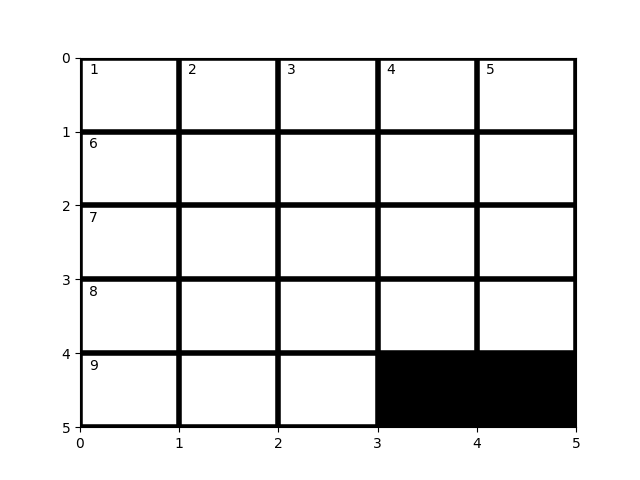
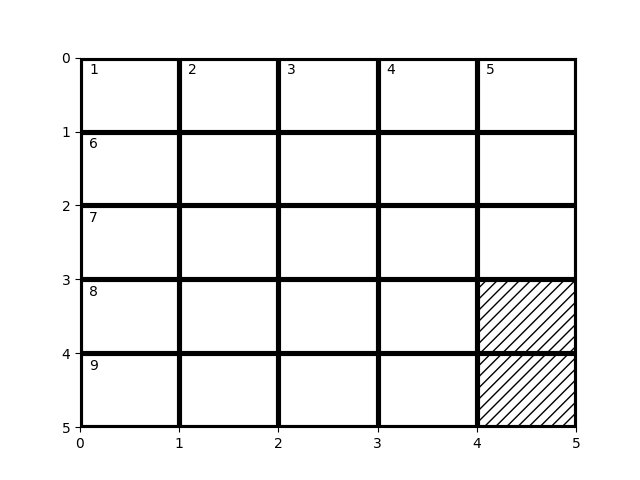
Fixed grid.display method and tweeked a bit the graphing_package

diff --git a/graphing_package/main.py b/graphing_package/main.py
@@ -102,7 +102,7 @@ def tree_show(te, scale_factor = 1, save_string = None) :
 	T = tree_to_networkx(te)
 	pos = hierarchy_layout(T, 0)
 	pos = nx.rescale_layout_dict(pos, scale_factor)
-	fig = plt.figure()
+	fig = plt.clf()
 	fig.set_figwidth(15)
 	fig.set_figheight(15)
 	nx.draw_networkx_nodes(T, pos)
@@ -126,12 +126,14 @@ def graph_show(g, vertice_partition = None, own_structure = True, save_string = 
 			G = graph_to_networkx(g)
 	else :
 		G = g
+
+	fig = plt.figure()
 	pos = nx.circular_layout(G)
+	colours = ["#de0c62", "#a2cffe", "#a2cffe", "#ceb301", "#b790d4", "#ffa756", "#ce5dae"]
+	# In order : Red, Blue, Green, Purple, Yellow, Orange, Pink
 	if vertice_partition is None :
 		nx.draw_networkx_nodes(G, pos, node_color = "White", node_shape = "s", linewidths = 1.0)
 	else :
-		colours = ["#de0c62", "#a2cffe", "#a2cffe", "#ceb301", "#b790d4", "#ffa756", "#ce5dae"]
-		# In order : Red, Blue, Green, Purple, Yellow, Orange, Pink
 		for i in range(len(vertice_partition)) :
 			j = i % len(colours)
 			nx.draw_networkx_nodes(G, pos, node_color = colours[j], alpha = .8, node_shape = "s", linewidths = 1.0,

diff --git a/solving_package/initializermodule.py b/solving_package/initializermodule.py
@@ -328,7 +328,8 @@ class Grid :  # Representation of a grid
 			for column in range(q) :
 				tile = self.Grid[row][column]
 				if tile.isBlock :
-					ax.add_patch(matplotlib.patches.Rectangle((row, column), 1, 1, fill = True, facecolor = 'black'))
+					ax.add_patch(matplotlib.patches.Rectangle((column, row), 1, 1, fill = False, hatch = '///',
+															  facecolor = 'black'))
 				else :
 					char = tile.char
 					if char != " " :
@@ -338,7 +339,7 @@ class Grid :  # Representation of a grid
 					ax.text(column + 1 / 11, row + 9 / 40, f"{clue_counter}", size = 10)
 					clue_counter += 1
 
-		plt.grid(True, linewidth = 4, color = 'black')
+		plt.grid(True, linewidth = 3.7, color = 'black')
 		plt.savefig(save_string)
 
 	def to_constraint_network(self) :
@@ -429,7 +430,8 @@ with open(grid_path) as f :
 			elif lines[i][j] != '0' :
 				grid.Grid[i][j].modify(char = lines[i][j])
 
-# grid.display(os.path.join(directory, "empty_grid.png"))
+print(grid)
+grid.display(os.path.join(directory, "empty_grid.png"))
 
 """word, weight = "stews", 1.0
 print(word, weight)
